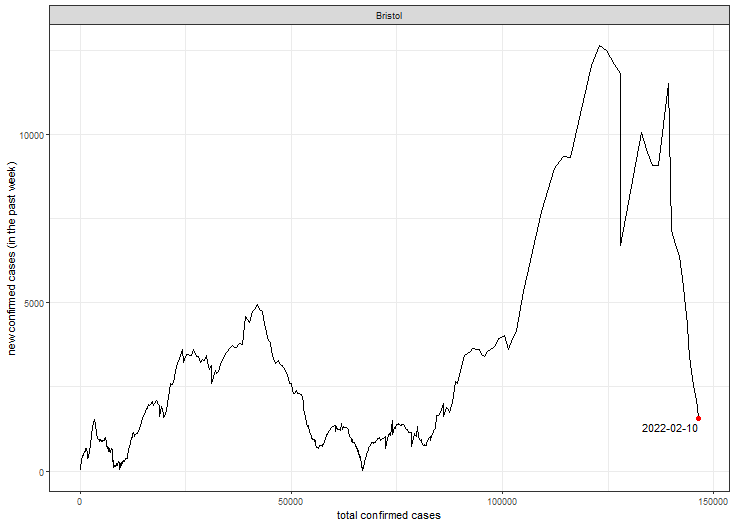
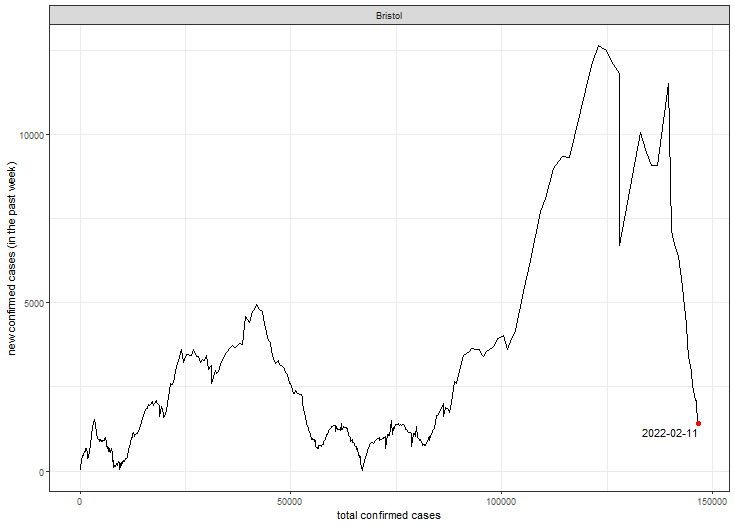
updated repo

diff --git a/README.md b/README.md
@@ -1,4 +1,4 @@
-Trends in COVID-19 for counties in the U.S. state of Massachusetts (updated on 2022-02-11)
+Trends in COVID-19 for counties in the U.S. state of Massachusetts (updated on 2022-02-12)
 ==========================================================================================
 
 ![trends in covid-19 cases by county in the U.S. state of
